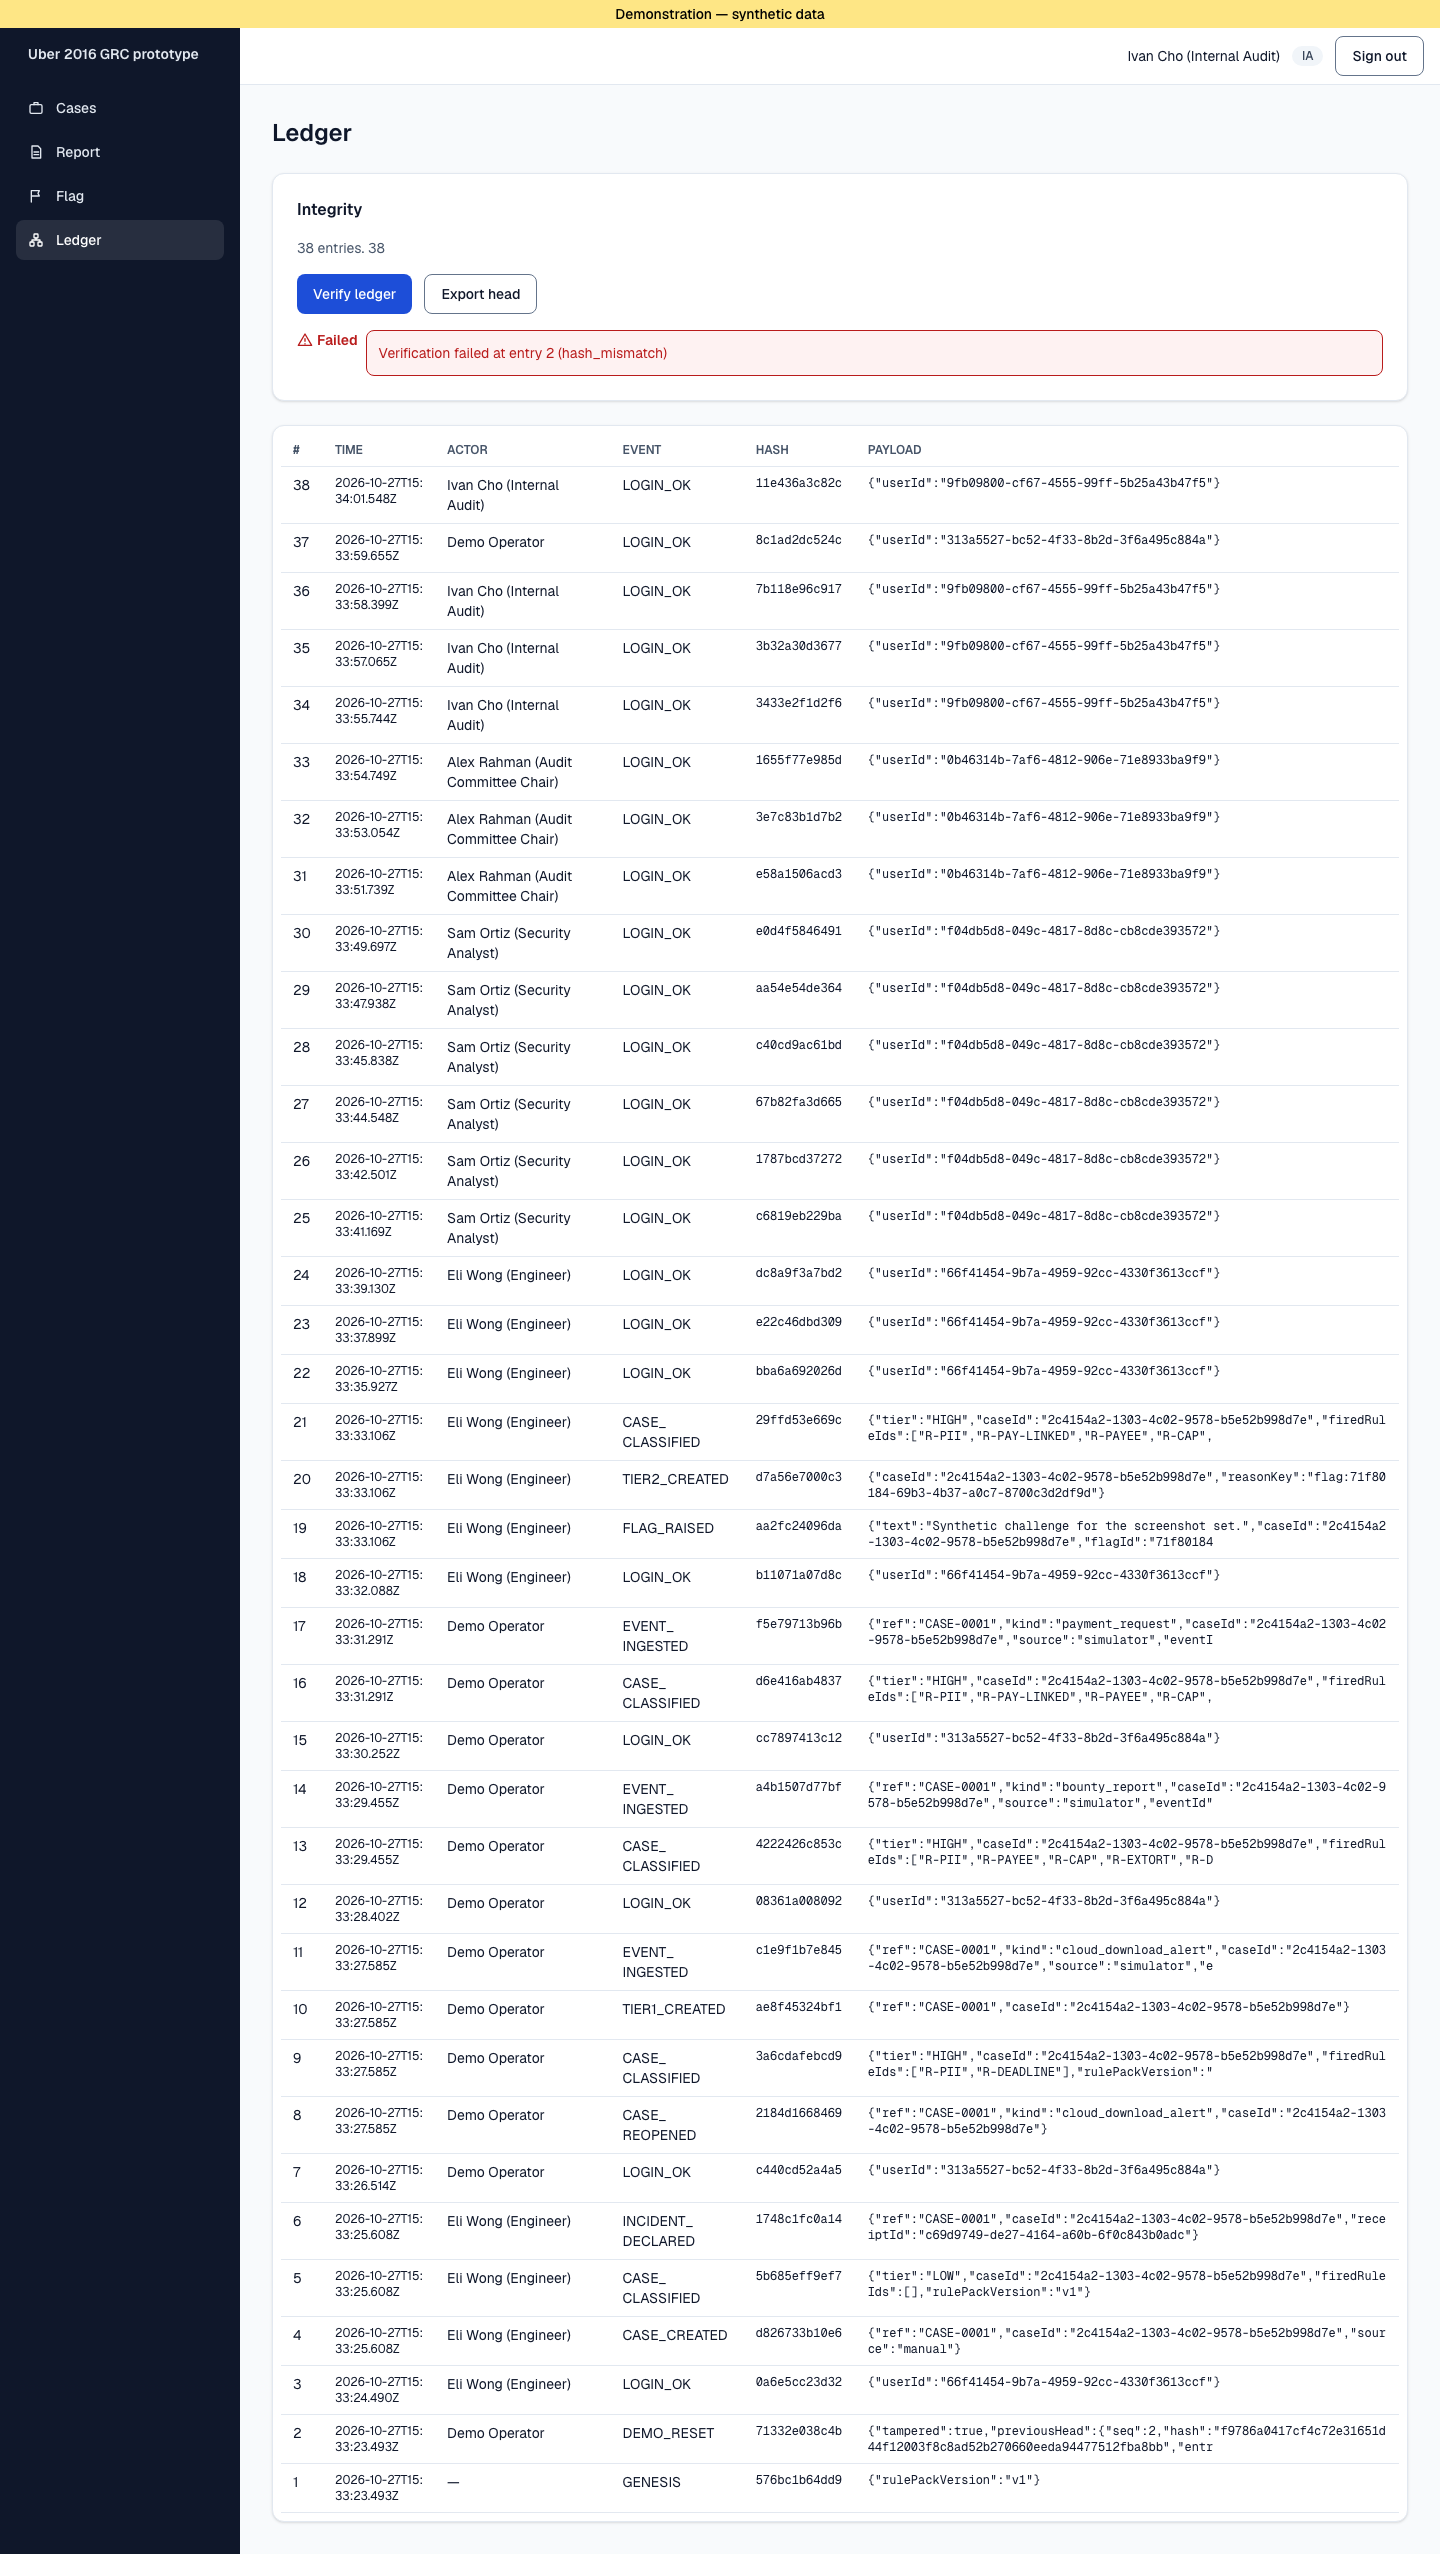
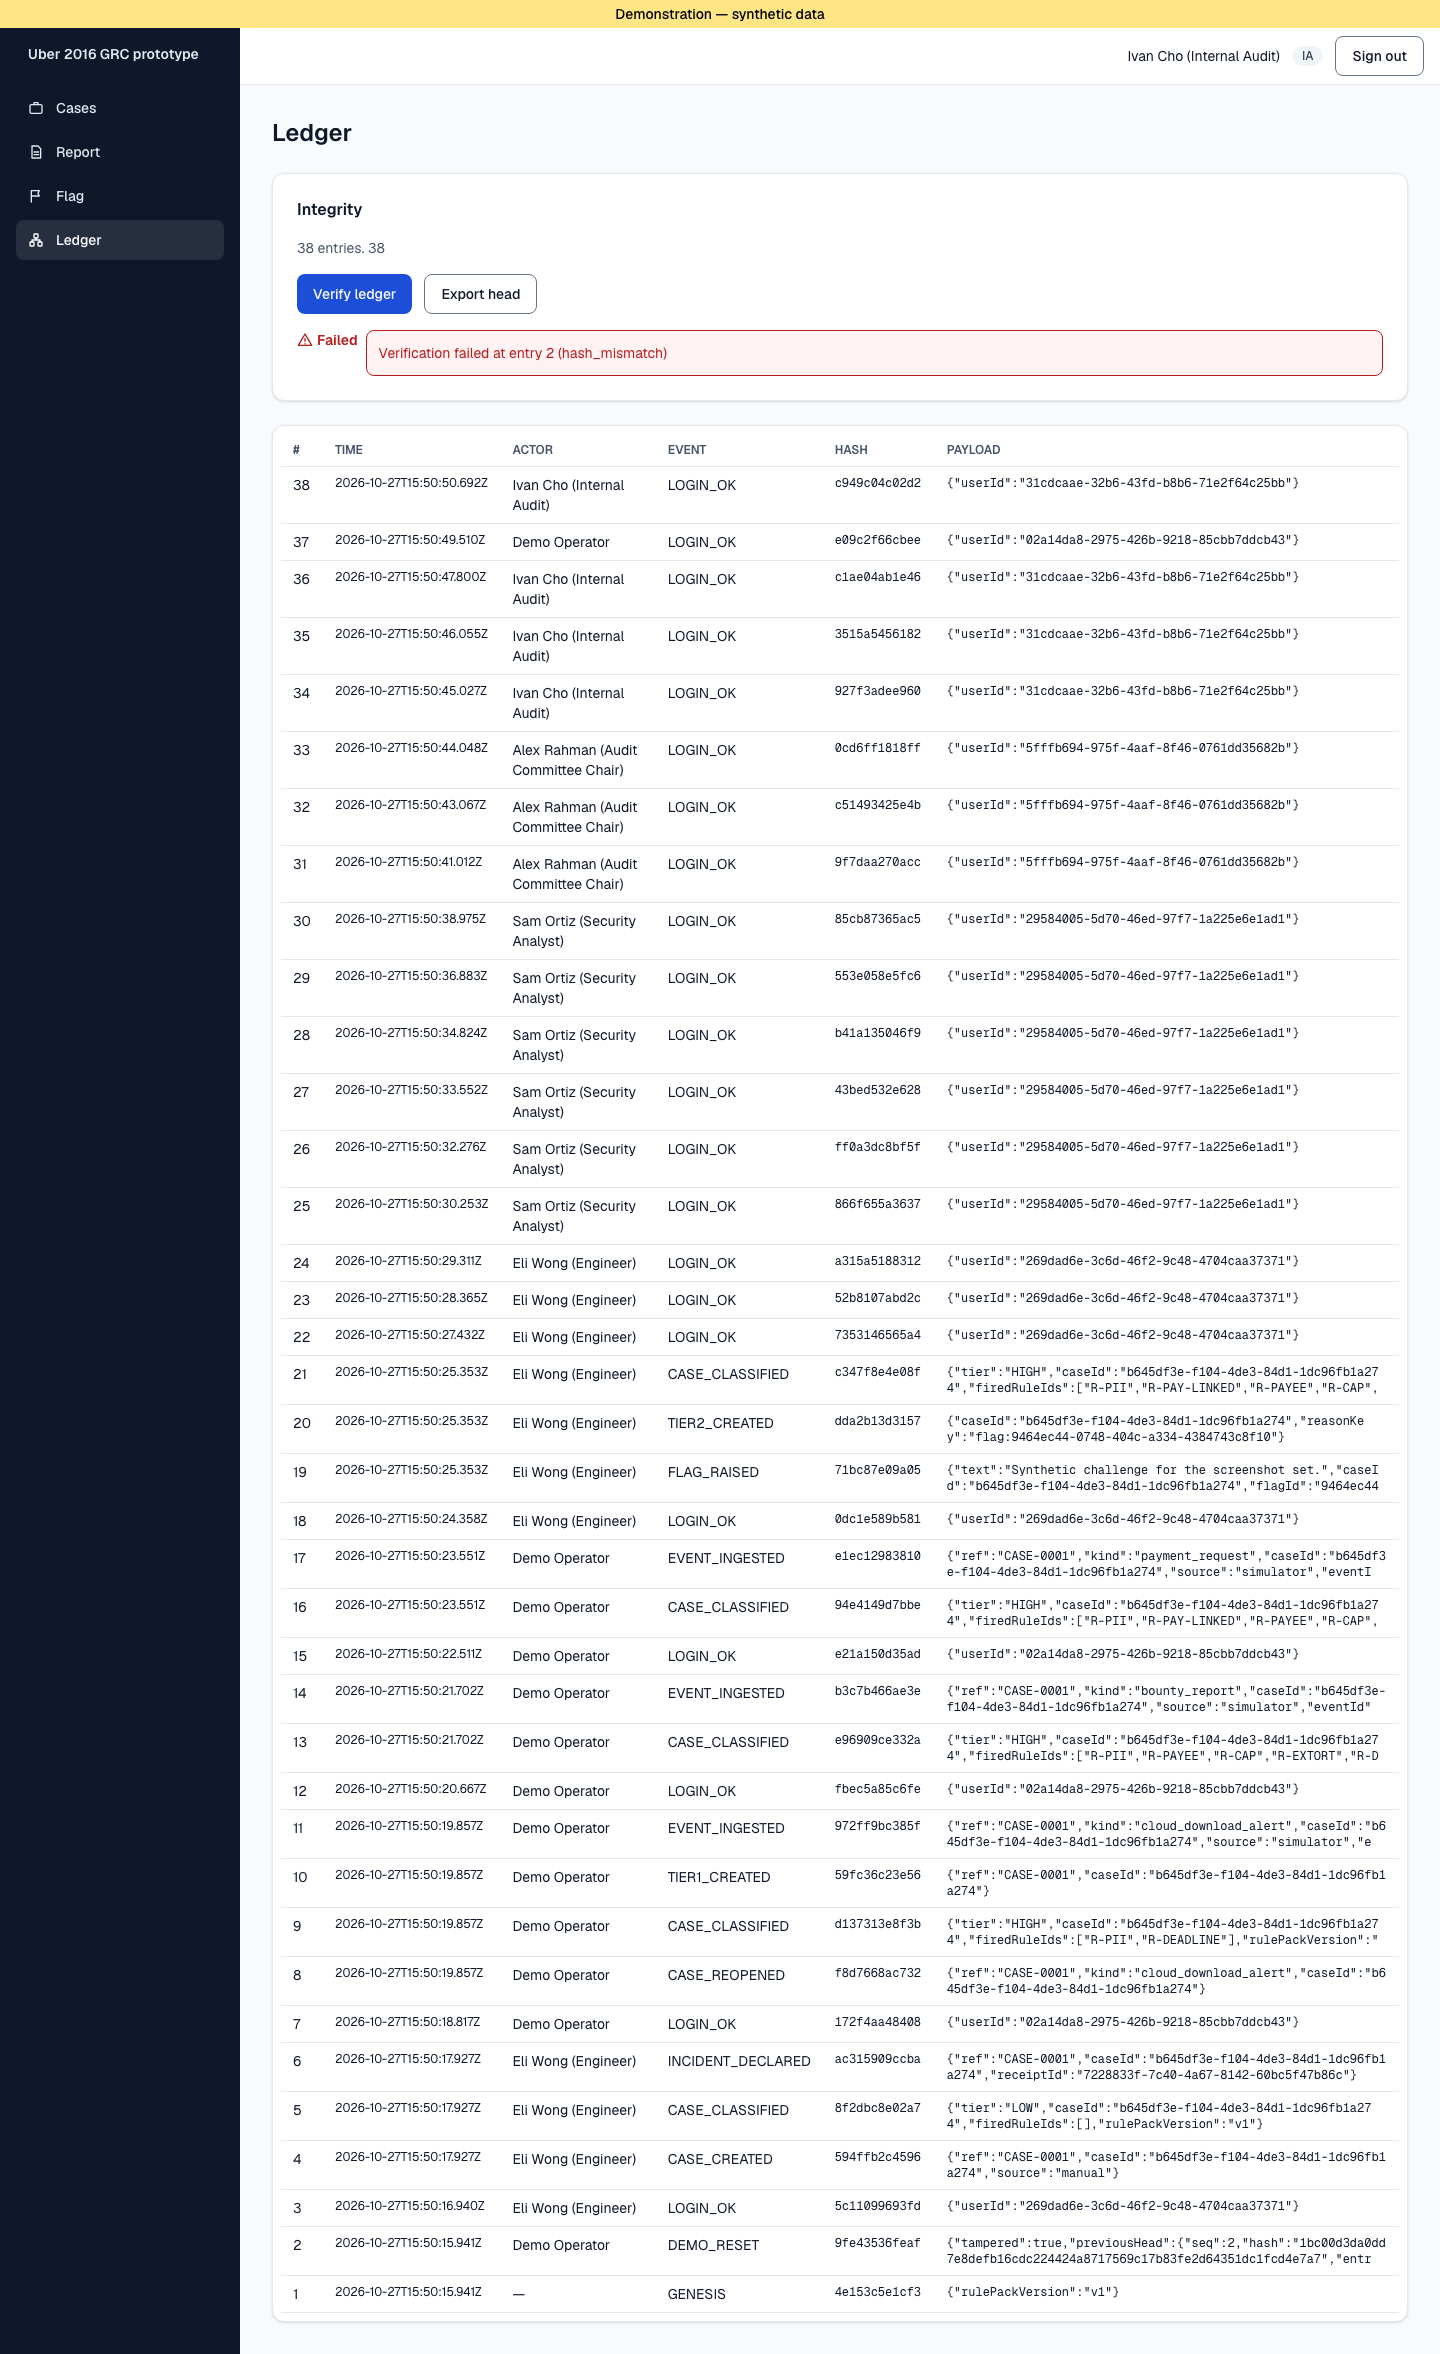
ux: final review fixes (docs counts, topbar, ledger time)

diff --git a/src/app/(app)/ledger/page.tsx b/src/app/(app)/ledger/page.tsx
@@ -126,17 +126,21 @@ async function Ledger({ searchParams }: PageProps<"/ledger">) {
             {rows.map((r) => (
               <tr key={r.seq}>
                 <Td>{r.seq}</Td>
-                <Td className="hidden break-all text-xs md:table-cell">{r.ts}</Td>
+                <Td className="hidden text-xs md:table-cell md:whitespace-nowrap">{r.ts}</Td>
                 <Td className="min-w-16 break-words">
                   {r.actorName}
                   <span className="block whitespace-nowrap text-xs text-muted md:hidden">
                     {r.ts.slice(0, 19).replace("T", " ")}
                   </span>
                 </Td>
-                <Td>
-                  {r.eventType.split("_").flatMap((w, i, a) =>
-                    i < a.length - 1 ? [`${w}_`, <wbr key={i} />] : [w],
-                  )}
+                <Td className="md:whitespace-nowrap">
+                  {/* wbr still breaks under nowrap in Chrome, so md+ gets plain text */}
+                  <span className="md:hidden">
+                    {r.eventType.split("_").flatMap((w, i, a) =>
+                      i < a.length - 1 ? [`${w}_`, <wbr key={i} />] : [w],
+                    )}
+                  </span>
+                  <span className="hidden md:inline">{r.eventType}</span>
                 </Td>
                 <Td className="hidden min-w-28 break-all font-mono text-xs md:table-cell">
                   {r.hashShort}

diff --git a/tests/e2e/ui-shell.spec.ts b/tests/e2e/ui-shell.spec.ts
@@ -367,3 +367,31 @@ test("board integrity card treats a pre-reset export as stale, not a mismatch", 
   await expect(page.getByTestId("head-status")).not.toContainText("DOES NOT MATCH");
   await expect(page.getByTestId("integrity-icon")).toHaveAttribute("data-state", "ok");
 });
+
+test("topbar Sign out stays on one line at 375 px", async ({ page }) => {
+  await page.setViewportSize({ width: 375, height: 812 });
+  await loginAs(page, "sa");
+  await page.goto("/cases");
+  await ready(page);
+  await expect(page.getByRole("button", { name: "Sign out" })).toHaveCSS(
+    "white-space",
+    "nowrap",
+  );
+  const header = page.locator("header").first();
+  const box = await header.boundingBox();
+  expect(box!.height).toBeLessThan(70);
+  expect(
+    await header.evaluate((h) => h.scrollWidth <= h.clientWidth),
+  ).toBe(true);
+});
+
+test("ledger Time and Event cells do not wrap at 1440 px", async ({ page }) => {
+  await firePreset(page, /Cloud download alert/);
+  await page.setViewportSize({ width: 1440, height: 900 });
+  await loginAs(page, "ia");
+  await page.goto("/ledger");
+  await ready(page);
+  const cells = page.locator("tbody tr").first().locator("td");
+  await expect(cells.nth(1)).toHaveCSS("white-space", "nowrap");
+  await expect(cells.nth(3)).toHaveCSS("white-space", "nowrap");
+});

diff --git a/tests/unit/theme-contrast.test.ts b/tests/unit/theme-contrast.test.ts
@@ -37,7 +37,7 @@ const hex = (k: string): string => {
 
 const AA: [string, string][] = [
   ["ink", "canvas"], ["ink", "surface"], ["muted", "surface"], ["muted", "canvas"],
-  ["white", "brand"], ["white", "brand-hover"], ["sidebar-ink", "sidebar"], ["sidebar-muted", "sidebar"],
+  ["white", "brand"], ["white", "brand-hover"], ["sidebar-ink", "sidebar"],
   ["white", "sidebar+white/10"], ["sidebar-ink", "sidebar+white/5"],
   ["ink", "neutral-soft"], ["muted", "neutral-soft"], ["neutral-ink", "neutral-soft"],
   ["brand", "surface"], ["danger-ink", "surface"], ["white", "danger-ink"], ["black", "amber-200"],

diff --git a/src/components/shell/Topbar.tsx b/src/components/shell/Topbar.tsx
@@ -25,10 +25,10 @@ export function Topbar({
           <SidebarLinks links={links} />
         </nav>
       </details>
-      <span className="ml-auto text-sm">{actor.displayName}</span>
+      <span className="ml-auto max-w-[40vw] truncate text-sm md:max-w-none">{actor.displayName}</span>
       <Badge variant="neutral">{actor.role}</Badge>
       <form action="/logout" method="post">
-        <Button type="submit" variant="secondary">
+        <Button type="submit" variant="secondary" className="whitespace-nowrap">
           Sign out
         </Button>
       </form>

diff --git a/src/app/globals.css b/src/app/globals.css
@@ -9,7 +9,6 @@
   --color-muted: #475569;
   --color-sidebar: #0F172A;
   --color-sidebar-ink: #E2E8F0;
-  --color-sidebar-muted: #94A3B8;
   --color-brand: #1D4ED8;
   --color-brand-hover: #1E40AF;
   --color-ring: #2563EB;

diff --git a/docs/ai/HANDOVER.md b/docs/ai/HANDOVER.md
@@ -1,7 +1,7 @@
 # Handover
 
 **Changed:** UX redesign on branch `ux/dashboard-redesign` (not pushed, no PR). Design tokens, shared UI components (`src/components/ui/*`), app shell with sidebar, skip link and mobile menu, every page restyled (login, report, cases, case detail, board, ledger, flag, demo). Old `Nav.tsx` removed. `tests/e2e/screens.spec.ts` (skipped unless `SCREENSHOTS=1`) writes 27 PNGs to `docs/evidence/screens/{1440,768,375}/`. Board page now uses `controlClass` instead of a local `inputCls`.
-**Verified (local, Postgres 16):** `npx eslint src tests` clean, typecheck clean, build OK. Unit 390/391 pass; the one failure is `.claude/worktrees/p1-.../tests/unit/authz.test.ts` (stale worktree copy, not the repo's test). Integration 136/136. `npm run e2e` 27 passed, 2 skipped (screens), including clock-cell no-clip checks at 768/1024/1440, 375px ledger column and integrity-icon (`data-state`) assertions. `SCREENSHOTS=1 npx playwright test screens` 2 passed, 27 PNGs.
+**Verified (local, Postgres 16):** `npx eslint src tests` clean, typecheck clean, build OK. Unit: 166/166 (`npx vitest run tests/unit --exclude '.claude/**'`); bare `npm test` also scans `.claude/worktrees` and reports extra tests plus one stale-worktree authz failure that is not a repo failure. Integration 136/136. `npm run e2e` 29 passed, 2 skipped (screens), including clock-cell no-clip checks at 768/1024/1440, 375px ledger column and integrity-icon (`data-state`) assertions. `SCREENSHOTS=1 npx playwright test screens` 2 passed, 27 PNGs.
 **Not verified / not done:** hosted preview run; human review; PR not opened; e2e not yet a required check. Screenshots re-checked: at 768 the Clocks table shows all four columns (Due wraps after `T`, Elapsed visible, no sideways scroll); at 1440 Due stays on one line; ledger 375 shows # / Actor+time / Event; board shows "No head exported since the last reset." with the check icon after a reset (page-level fix, see carry-over).
 **Next:** open PR after P4 merges, rebase onto `main`, add `E2E_BASE_URL`, then P4 Task 5.
 **Decisions:** presentation only (no server/domain/migration change); status never colour-only (icon plus text); the shell wrapper is `div#main` and each page keeps its own `<main>`; screenshots are committed as evidence.

diff --git a/docs/ai/PROGRESS.md b/docs/ai/PROGRESS.md
@@ -7,6 +7,6 @@
 | P2 intake/cases | done | lint, typecheck, 178 unit, 79 integration, build, `npm run e2e` replay steps 1-3 + scenario C (4/4) green locally; CI green on PR #9 (10/10 checks, incl. e2e); merged | 2026-10-26 |
 | P3 gate/clocks | done (reviewed; PR #11 merged, CI 10/10 green incl. e2e) | lint, typecheck, 220 unit, 107 integration, build, `npm run e2e` replay steps 1-5 + scenario C (6/6) green locally and in CI | 2026-10-26 |
 | P4 board/ledger/e2e | code done locally; preview (Task 5, Darius) pending, not committed to main | lint, typecheck, 223 unit (+1 stale-worktree failure outside tests/), 131 integration, build, `npm run e2e` 13/13 (replay steps 1-8 + scenarios B-F) green locally | 2026-10-26 |
-| UX redesign | done on branch ux/dashboard-redesign, not yet merged | eslint src+tests, typecheck, build clean; 390/391 unit (1 stale-worktree failure in `.claude/worktrees`), 136/136 integration, `npm run e2e` 27 passed + 2 skipped (screens), `SCREENSHOTS=1` screens 2/2 -> 27 PNGs | 2026-10-27 |
+| UX redesign | done on branch ux/dashboard-redesign, not yet merged | eslint src+tests, typecheck, build clean; unit 166/166 (`npx vitest run tests/unit --exclude '.claude/**'`; bare `npm test` also scans `.claude/worktrees` and reports extra tests plus one stale-worktree authz failure, not a repo failure), 136/136 integration, `npm run e2e` 29 passed + 2 skipped (screens), `SCREENSHOTS=1` screens 2/2 -> 27 PNGs | 2026-10-27 |
 | P4.5 stretch | not started | | |
 | P5 freeze | not started | | |
